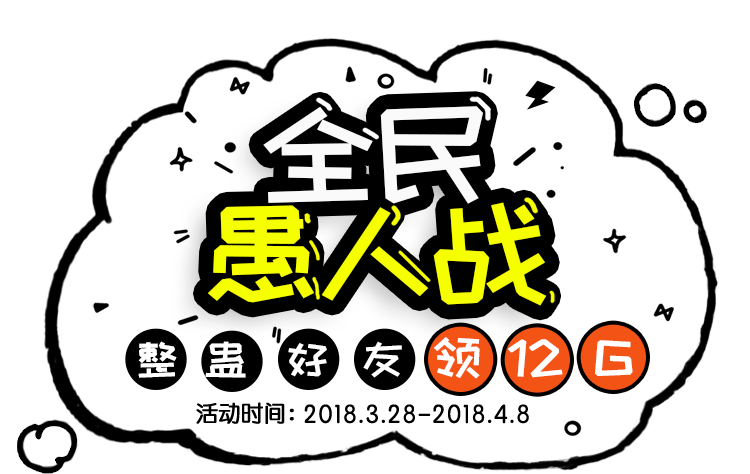
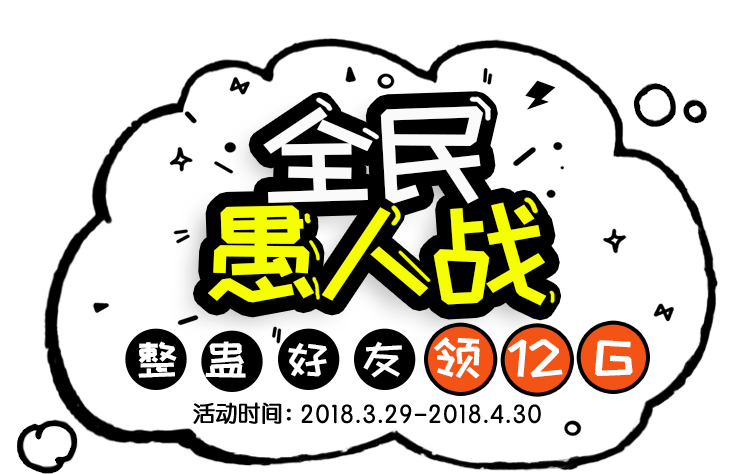
活动时间修改

Changed region(s): [[0.2453, 0.827, 0.736, 0.9156]]

diff --git a/chinamobilercs/miyouAprilAc/src/pages/activityRule.vue b/chinamobilercs/miyouAprilAc/src/pages/activityRule.vue
@@ -22,7 +22,7 @@
       	7、奖品领取和使用说明：<br />
       	（1）流量卡券为中国移动省内通用流量，到账后可在密友圈APP-我-卡券-未使用查看；<br />
       	（2）非移动号码及已办理不限量套餐、4G随心王、万花筒套餐、任我用套餐、和多号副号、万能副卡移动用户，可以领取流量卡券赠送好友但不能兑换充值到自己手机；<br />
-      	（3）活动奖励获得的流量卡券，将在24小时内派发，需在5月4日前完成兑换，过期失效；<br />
+      	（3）活动奖励获得的流量卡券，将在24小时内派发，需在5月31日前完成兑换，过期失效；<br />
       	（4）1G流量使用时效1小时，从充值到手机起生效，到期自动失效；<br />
       	（5）流量卡券只能在密友圈APP内自己兑换或通过密友圈群赠送给家庭网其他成员；<br />
       	（6）若获得2G奖励，则会派发2张1G流量卡券，获得3G奖励，则会派发3张1G流量卡券，以此类推；<br />

diff --git a/chinamobilercs/miyouAprilAc/src/css/global.css b/chinamobilercs/miyouAprilAc/src/css/global.css
@@ -3,8 +3,8 @@
 }
 
 @font-face {
-    font-family: STYuanti;
-    src: url('../assets/font/STYuanti.ttc');
+    /*font-family: STYuanti;*/
+    /*src: url('../assets/font/STYuanti.ttc');*/
     font-weight: bold;
 }
 
@@ -28,7 +28,7 @@ legend,
 option,
 select,
 textarea {
-    font-family: "STYuanti", "Helvetica Neue", Helvetica, Arial, "PingFang SC", "Hiragino Sans GB", "Heiti SC", "Microsoft YaHei", "WenQuanYi Micro Hei", sans-serif;
+    font-family: "Helvetica Neue", Helvetica, Arial, "PingFang SC", "Hiragino Sans GB", "Heiti SC", "Microsoft YaHei", "WenQuanYi Micro Hei", sans-serif;
 }
 
 ::-webkit-scrollbar {

diff --git a/chinamobilercs/miyouAprilAc/src/utils/common.js b/chinamobilercs/miyouAprilAc/src/utils/common.js
@@ -142,7 +142,7 @@ class CommonCenter {
         document.title = _title;
         var iframe = document.createElement("iframe");
         iframe.style.display = "none";
-        iframe.setAttribute("src", "static/favicon.ico");
+        // iframe.setAttribute("src", "static/favicon.ico");
         var d = function () {
             setTimeout(function () {
                 iframe.removeEventListener('load', d);
